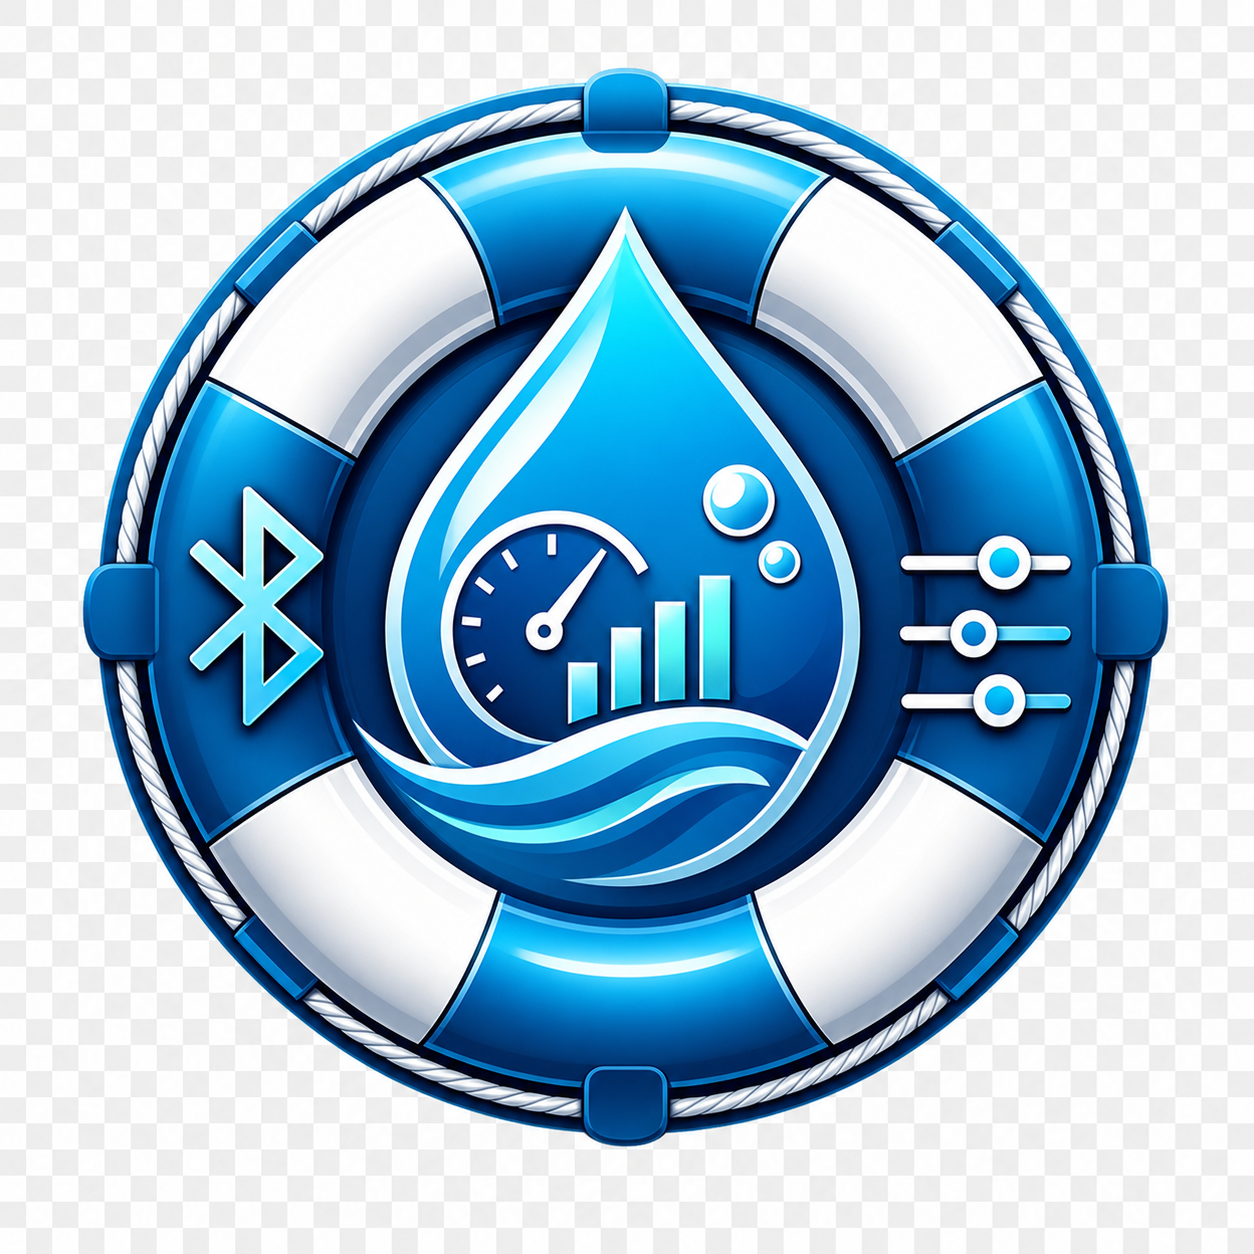
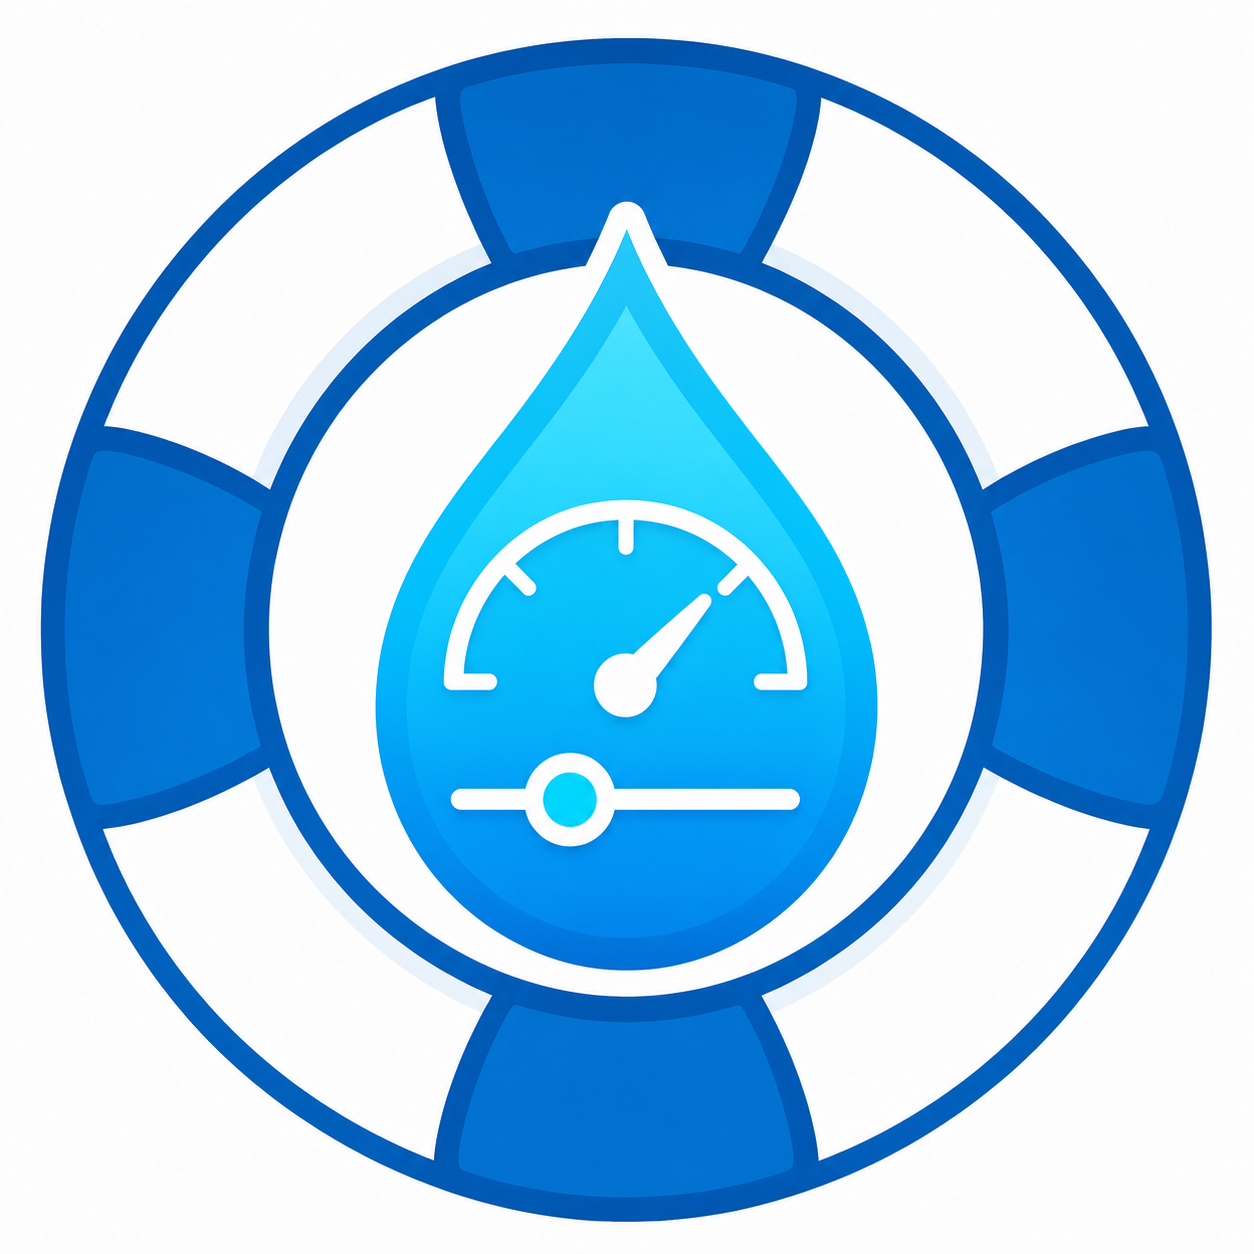
Release v3.0.29

diff --git a/custom_components/smart_pool_assistant/frontend/pool-chemistry-card.js b/custom_components/smart_pool_assistant/frontend/pool-chemistry-card.js
@@ -2929,7 +2929,7 @@ class PoolChemistryCardEditor extends HTMLElement {
 if (!customElements.get('pool-chemistry-card')) {
     customElements.define('pool-chemistry-card', PoolChemistryCard);
     customElements.define('pool-chemistry-card-editor', PoolChemistryCardEditor);
-    console.info("%c SMART-POOL-ASSISTANT %c 3.0.28 ", "color: white; background: #03a9f4; font-weight: 700;", "color: #03a9f4; background: white; font-weight: 700;");
+    console.info("%c SMART-POOL-ASSISTANT %c 3.0.29 ", "color: white; background: #03a9f4; font-weight: 700;", "color: #03a9f4; background: white; font-weight: 700;");
 }
 
 

diff --git a/TECHNISCHE_DOKUMENTATION.md b/TECHNISCHE_DOKUMENTATION.md
@@ -3,8 +3,8 @@
 **Projekt:** Smart Pool Assistant  
 **Repository:** https://github.com/SniperWCW/Smart-Pool-Assistant  
 **Integration Domain:** `smart_pool_assistant`  
-**Dokumentationsstand:** 2026-07-04  
-**Bezugsstand Codebasis:** lokaler Arbeitsstand am 2026-07-04 auf Basis von `manifest.json` Version `3.0.28`, inklusive manueller PoolLab-Abruf-UI als dritte obere Kartenbox, Live-BLE-Status, eigenem rotierenden Diagnose-Logfile, robusterem PoolLab-BLE-Cleanup bei Timeout, zurueckgenommenem zusaetzlichem BLE-Connect-Timeout, Zielbereichen fuer Chlor und pH, lernender Chloranalyse mit persoenlichem Chlorfaktor, persoenlichem Chlor-Dosierfaktor, Chlor-Prognose, pH-Stabilitaetsanalyse mit bereinigter Drift, einklappbarer Frontend-Stabilitaetssektion, Nachmess-Workflow bei einzelner Chemiezugabe, Messloeffel-Dosierung, Badeampel, vier-spaltiger und mobil optimierter Messwertetabelle, Cyanursaeure/CYA als aktuellem Messwert mit Quellenanzeige, geplanter Vor-Baden-Dosierung ueber `Baden in`, vereinfachter Nutzungswahl in der Karte, ausgelagerter Berechnungs-, Wartungs-, Benachrichtigungs-, Wetter-, PoolLab-Cloud-, Chlor-Lern-, pH-Lern- und PoolLab-BLE-Auswahllogik sowie optionaler Wetterintegration mit Backend-Forecast-Fallback, separatem UV-Sensor, optionaler Pumpenlaufzeit-Erfassung, einklappbarer Wettersektion, LayZSpa-Zieltemperatur-Steuerung, LayZSpa-Heizzeit-Prognose, Pool-Verbindungswarnung, event-loop-sicherer Frontend-Registrierung, einheitlichen Doku-Einstiegsseiten, gemeinsamer Status-/Baden-/PoolLab-Kopfbox, korrigierter Schockchlorungsbereich-Bewertung, konfigurierbarer Schockchlorungs-Obergrenze, angepassten Badetemperatur-Schwellen, sauberem Reset der Filterreinigung beim Filterwechsel, sichtbarer Volumen-Diagnose im Chlor-Breakdown, abgesicherter Dosierfaktor-Lernlogik gegen spaete Nachmessungen, spaeterer Aktivierung des Dosierfaktors ab 5 Samples, CYA-Prognose, chlorproduktabhaengiger Wirkstoff-Defaults, auf Chemieparameter fokussierter Messhistorie aus API/BLE/manuell, Bereinigung persistierter Messhistorie schon beim Laden und FAQ fuer typische Diagnose- und Supportfaelle
+**Dokumentationsstand:** 2026-07-12  
+**Bezugsstand Codebasis:** lokaler Arbeitsstand am 2026-07-12 auf Basis von `manifest.json` Version `3.0.29`, inklusive manueller PoolLab-Abruf-UI als dritte obere Kartenbox, Live-BLE-Status, eigenem rotierenden Diagnose-Logfile, robusterem PoolLab-BLE-Cleanup bei Timeout, zurueckgenommenem zusaetzlichem BLE-Connect-Timeout, Zielbereichen fuer Chlor und pH, lernender Chloranalyse mit persoenlichem Chlorfaktor, persoenlichem Chlor-Dosierfaktor, Chlor-Prognose, pH-Stabilitaetsanalyse mit bereinigter Drift, einklappbarer Frontend-Stabilitaetssektion, Nachmess-Workflow bei einzelner Chemiezugabe, Messloeffel-Dosierung, Badeampel, vier-spaltiger und mobil optimierter Messwertetabelle, Cyanursaeure/CYA als aktuellem Messwert mit Quellenanzeige, geplanter Vor-Baden-Dosierung ueber `Baden in`, vereinfachter Nutzungswahl in der Karte, ausgelagerter Berechnungs-, Wartungs-, Benachrichtigungs-, Wetter-, PoolLab-Cloud-, Chlor-Lern-, pH-Lern- und PoolLab-BLE-Auswahllogik sowie optionaler Wetterintegration mit Backend-Forecast-Fallback, separatem UV-Sensor, optionaler Pumpenlaufzeit-Erfassung, einklappbarer Wettersektion, LayZSpa-Zieltemperatur-Steuerung, LayZSpa-Heizzeit-Prognose, Pool-Verbindungswarnung, event-loop-sicherer Frontend-Registrierung, einheitlichen Doku-Einstiegsseiten, gemeinsamer Status-/Baden-/PoolLab-Kopfbox, korrigierter Schockchlorungsbereich-Bewertung, konfigurierbarer Schockchlorungs-Obergrenze, angepassten Badetemperatur-Schwellen, sauberem Reset der Filterreinigung beim Filterwechsel, sichtbarer Volumen-Diagnose im Chlor-Breakdown, abgesicherter Dosierfaktor-Lernlogik gegen spaete Nachmessungen, spaeterer Aktivierung des Dosierfaktors ab 5 Samples, CYA-Prognose, chlorproduktabhaengiger Wirkstoff-Defaults, auf Chemieparameter fokussierter Messhistorie aus API/BLE/manuell, Bereinigung persistierter Messhistorie schon beim Laden und FAQ fuer typische Diagnose- und Supportfaelle
 
 ---
 

diff --git a/README.md b/README.md
@@ -5,7 +5,7 @@
 </p>
 
 <p align="center">
-  <img src="https://img.shields.io/badge/release-v3.0.28-blue" alt="Release">
+  <img src="https://img.shields.io/badge/release-v3.0.29-blue" alt="Release">
   <img src="https://img.shields.io/badge/license-MIT-green" alt="License">
   <img src="https://img.shields.io/badge/Home%20Assistant-Custom%20Integration-41BDF5" alt="Home Assistant Custom Integration">
   <img src="https://img.shields.io/badge/dynamic/json?url=https%3A%2F%2Fanalytics.home-assistant.io%2Fcustom_integrations.json&query=%24.smart_pool_assistant.total&label=tracked%20installs&color=41BDF5" alt="Tracked installs">
@@ -14,7 +14,7 @@
 
 Der **Smart Pool Assistant** ist eine Home Assistant Integration fuer Pool- und Whirlpool-Pflege. Sie kombiniert PoolLab BLE, PoolLab Cloud, manuelle Sensoren, lernende Dosierlogik, Wartungshistorie und eine eigene Lovelace-Karte in einer zentralen Empfehlung.
 
-**Aktueller Release-Stand: V3.0.28**
+**Aktueller Release-Stand: V3.0.29**
 
 ## Schnellueberblick
 

diff --git a/Changelog.md b/Changelog.md
@@ -1,5 +1,11 @@
 # Changelog - Smart Pool Assistant
 
+## [3.0.29] - 2026-07-12
+
+- **Branding fuer HACS und Home Assistant vereinheitlicht**: Icon, Logo und Banner wurden als konsistentes Asset-Set fuer kleine HACS-Kacheln, breite Brand-Darstellung und README-Vorschau neu aufgebaut.
+- **HACS-Metadaten auf korrektes Brand-Asset umgestellt**: `hacs.json` und `custom_components/hacs.json` verweisen fuer `brand` jetzt auf das breite Banner statt auf das quadratische Logo.
+- **Release-Artefakte aktualisiert**: `manifest.json`, `README.md`, `Changelog.md`, `TECHNISCHE_DOKUMENTATION.md`, Frontend-Versionshinweis und neue Release Notes wurden auf `3.0.29` angehoben.
+
 ## [3.0.28] - 2026-07-04
 
 - **Vor-Baden-Text sprachlich geschaerft**: Die Karte trennt bei aktivem Badeplan jetzt klar zwischen Sofortaktion und Zielaussage, damit eindeutig ist, dass die berechnete `chlor_pre`-Menge jetzt zugegeben werden soll und der Mindestwert zum geplanten Badezeitpunkt noch passt.

diff --git a/release_notes/RELEASE_NOTES_V3.0.29.md b/release_notes/RELEASE_NOTES_V3.0.29.md
@@ -1,0 +1,10 @@
+# Release Notes V3.0.29
+
+## Branding
+
+- Icon, Logo und Banner wurden als konsistentes Branding-Set fuer HACS, Home Assistant und die README erneuert.
+- Die HACS-Metadaten nutzen fuer `icon` weiter das quadratische App-Icon und fuer `brand` jetzt das breite Banner.
+
+## Release-Artefakte
+
+- `manifest.json`, `README.md`, `Changelog.md`, `TECHNISCHE_DOKUMENTATION.md`, Frontend-Versionshinweis und diese Release Notes wurden auf `3.0.29` aktualisiert.
